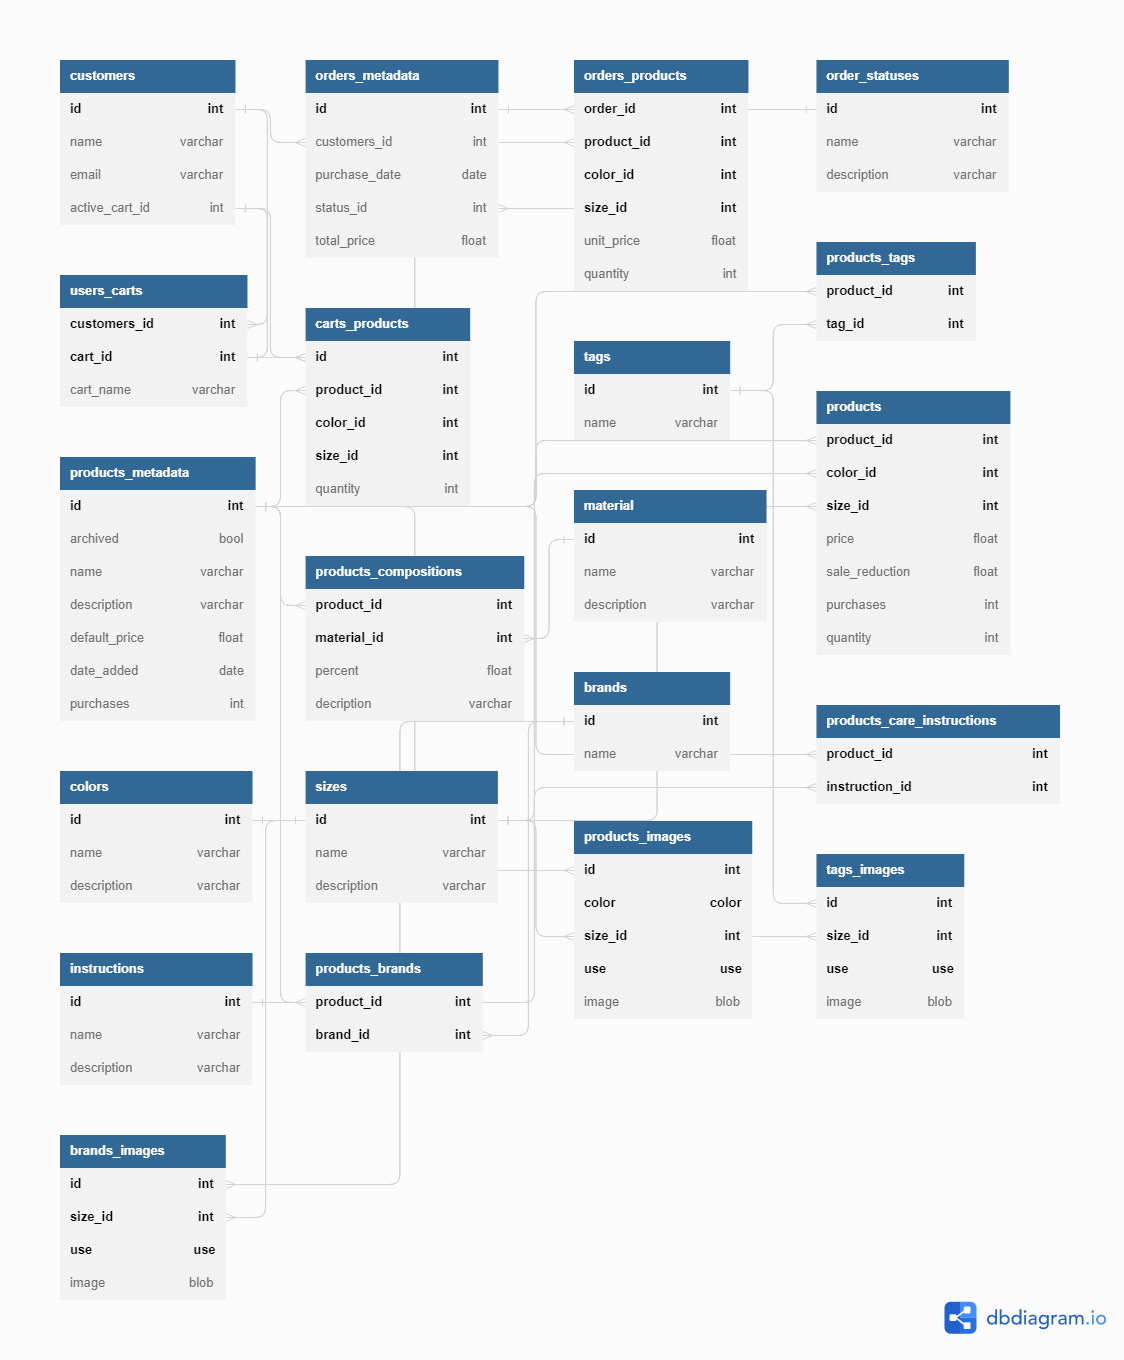
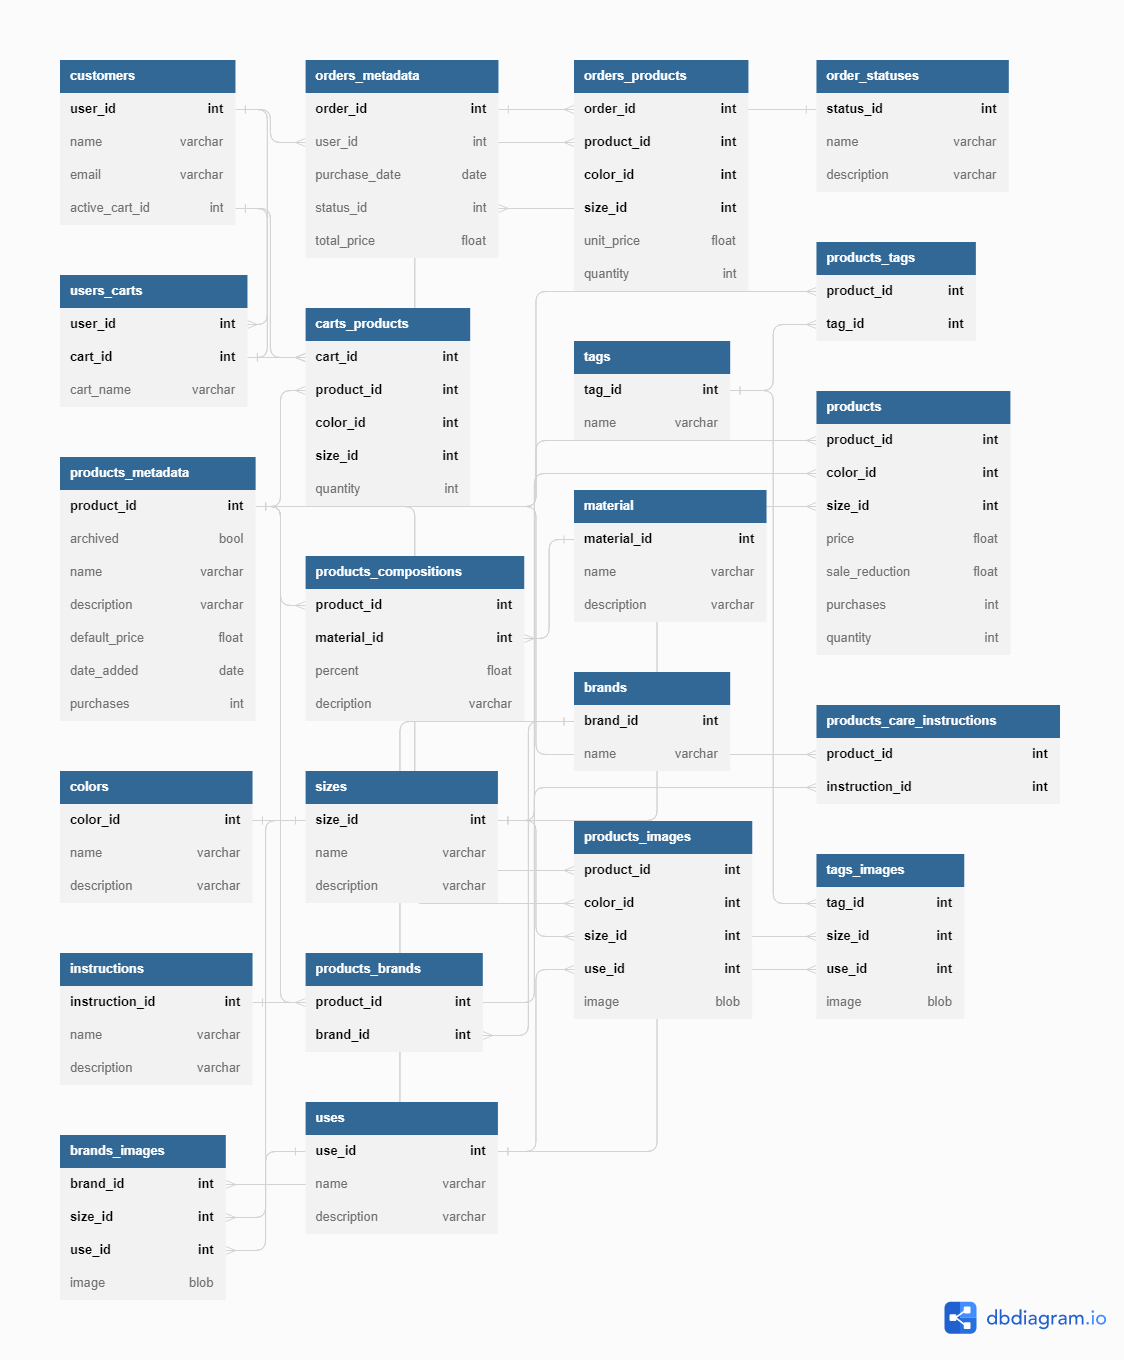
Changed some database field names to be easier read

diff --git a/dbschema/document_database_model.js b/dbschema/document_database_model.js
@@ -113,7 +113,7 @@ const products = {
     description: "varchar",
     //if false product is archived and should not show up in search results
     archived: "boolean",
-    //All tags such as men's jeans, men's skinny jeans etc.
+    //All tags such as jeans, men, child, skinny jeans, etc.
     tags: ["tag_id1"],
     //allows search by recency
     date_added: "timestamp",
